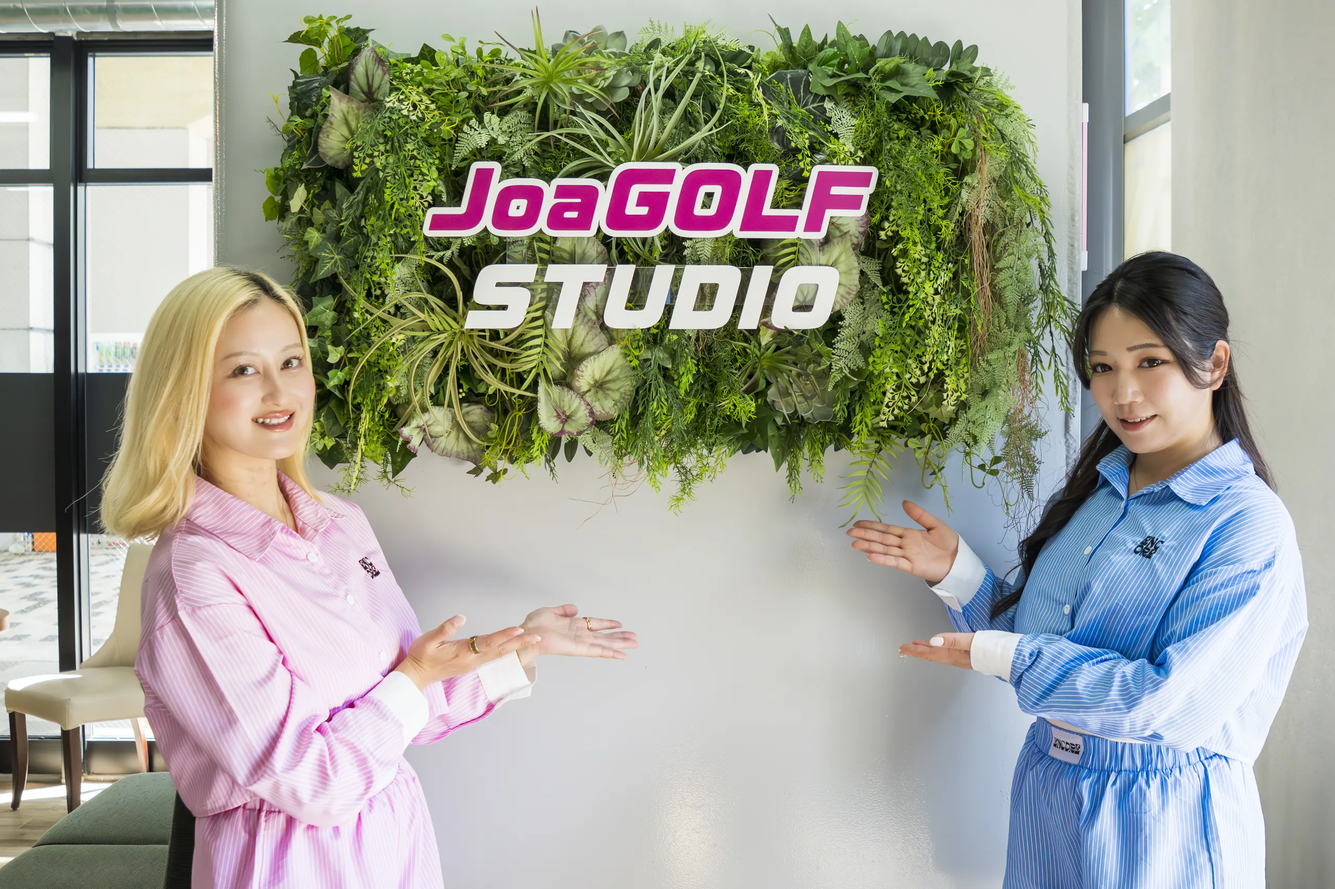
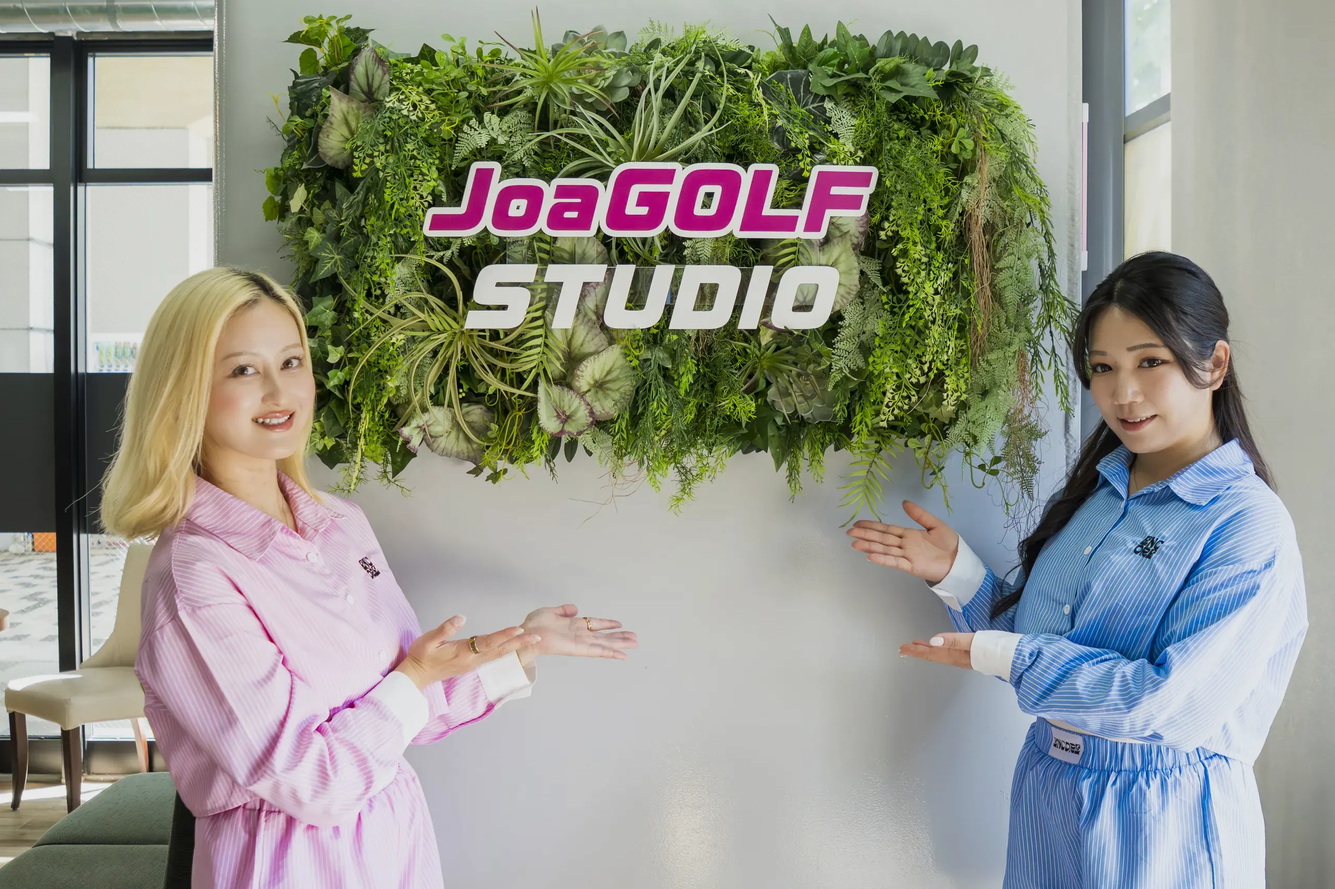
ヒーロー画像の明るさを元画像と同じ水準(平均輝度147)に補正
- トップ hero.webp / hero-2x.webp と神戸店 kobe-hero.webp / kobe-hero-2x.webp を0.92倍で明るさ補正(159.7→146.6)
- 黒オーバーレイ(rgba(0,0,0,0.35))を元の設定に戻す

diff --git a/css/style.css b/css/style.css
@@ -357,7 +357,7 @@ button {
   content: "";
   position: absolute;
   inset: 0;
-  background: transparent;
+  background: rgba(0, 0, 0, 0.35);
 }
 
 .kv__bg img {
